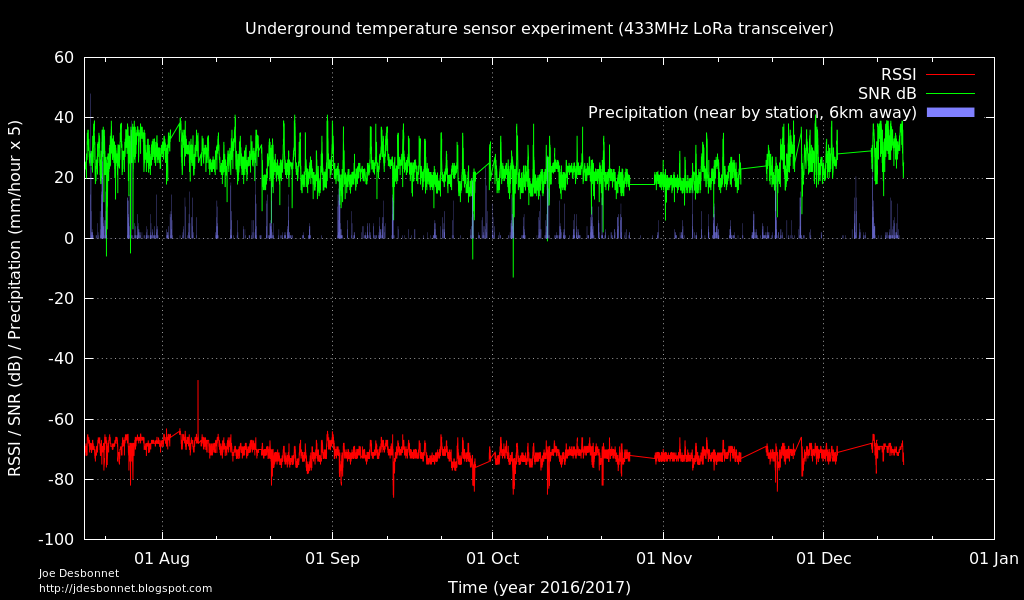
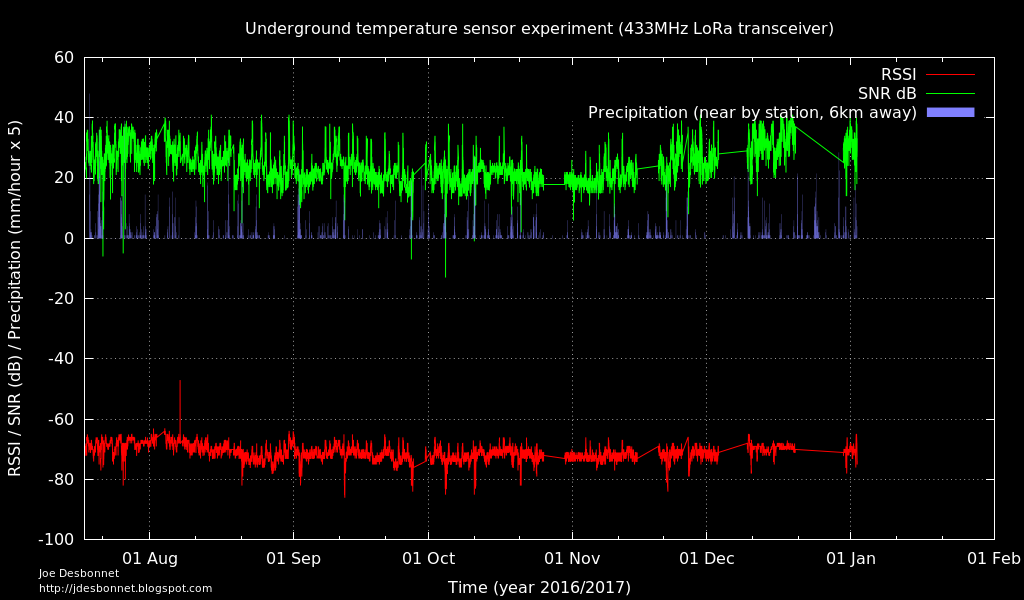
update charts

diff --git a/README.md b/README.md
@@ -27,6 +27,10 @@ Firmware requires the following configuration:
   
 ## Log 
 
+### 30 Dec 2017
+
+Server down over holiday period. I was away so couldn't reset. Data loss of a little over a week.
+
 ### 18 Jul 2017
 
 Disruptions to data receiption due to host computer UART problems at receiver station in mid-July 2017. 
